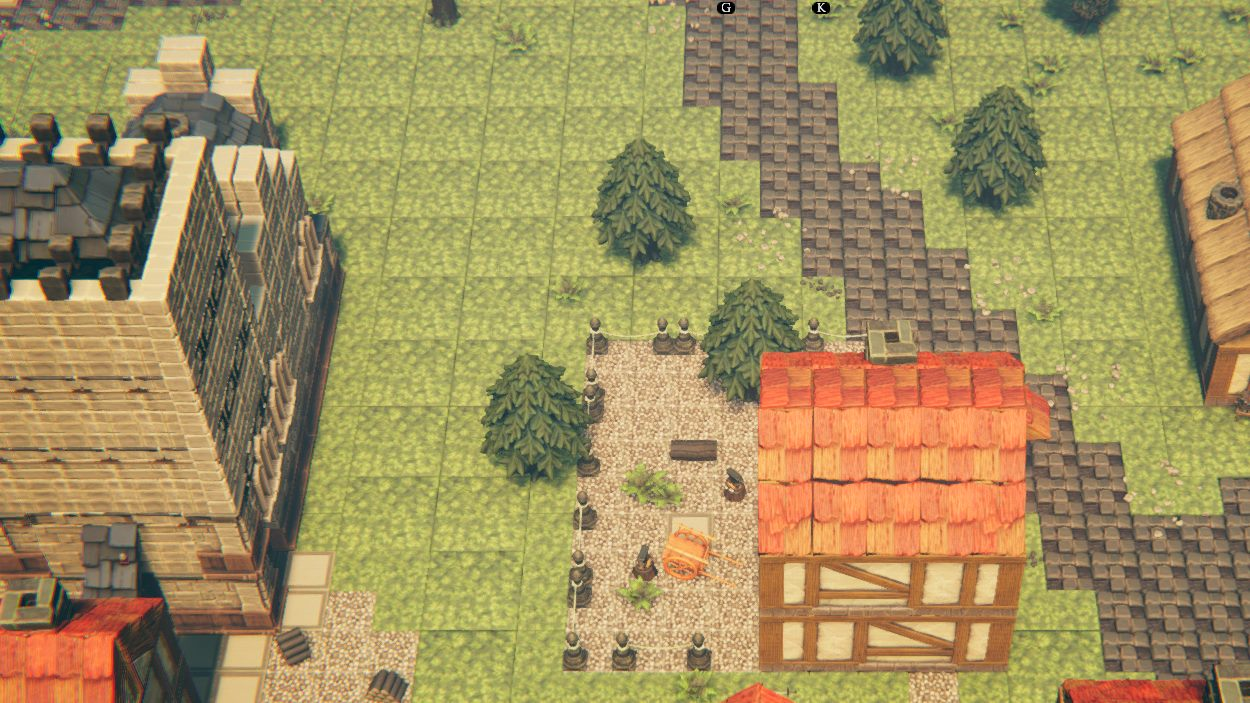
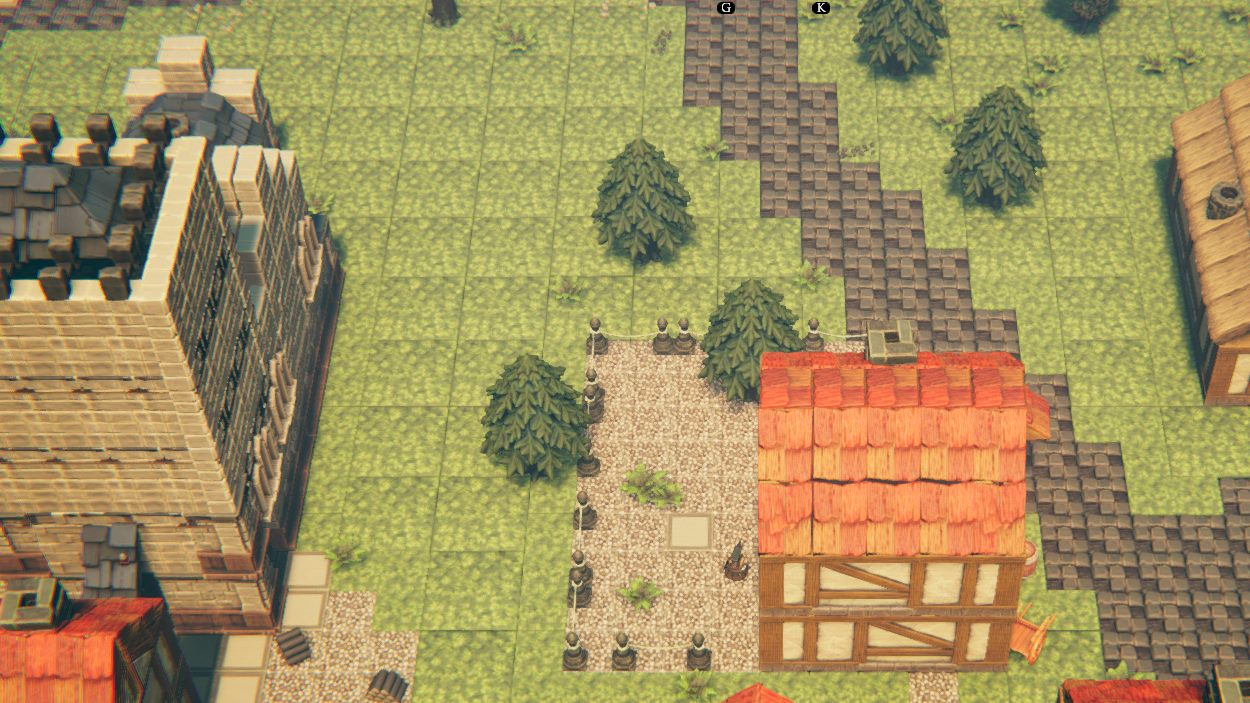
All four towns rebuilt and re-pasted, on one command
199 chunks across four boards, every one named and indexed: Forest Church 54,
Pelvesthollow 9, Graybank 22, East Tradebourne 114. All four now carry the
same code -- capped chimneys, outdoor yards, outdoor frontages, reserved door
aprons -- where before each board was a different snapshot of the work.

The run is `tools/paste_all.ps1` rather than four invocations, because the
ordering is not a preference: one game window and one cursor means overlapping
runs stamp each other's slabs somewhere invisible.

Both of the run's lessons are about WHEN a check happens, not whether.
`-WhatIf` caught a board-name collision before the run. And the first real
attempt died on its first town with the plane verified moments earlier,
because `review.ps1 tiled` makes its new board and then checks -- and
`newboard` can drop build mode, which is the only state the plane probe can
read in. A reading taken before that call describes a different moment.

diff --git a/docs/regenerating-boards.md b/docs/regenerating-boards.md
@@ -242,6 +242,36 @@ untouched by the carve, the wall verify line, and Graybank's drystone
 boundaries on real parcel lines. Each needs flying to a known place on a
 739x598 town at a camera that frames about 40 tiles.
 
+### All four, rebuilt and re-pasted on one command, 2026-08-31
+
+`tools/paste_all.ps1`. Four towns, 199 chunks, one game window and one cursor,
+so the run is sequential by construction rather than by discipline.
+
+| town | board | assets | chunks | largest slab |
+|---|---|---|---|---|
+| Forest Church | `Forest Church 08-31c` | 26,860 | 54 | 4,593 |
+| Pelvesthollow | `Pelvesthollow 08-31c` | 21,707 | 9 | 13,818 |
+| Graybank | `Graybank 08-31c` | 91,159 | 22 | 22,626 |
+| East Tradebourne | `East Tradebourne 08-31c` | 402,693 | 114 | 23,883 |
+
+All four now carry the same code: capped chimneys, outdoor yards, outdoor
+frontages and reserved door aprons.
+
+**Two things the run taught, both about the order of a check.**
+
+`-WhatIf` prints the plan and the board names and touches nothing. It caught a
+name collision before the run rather than after -- four boards already carried
+the plain date from earlier the same day.
+
+And the first real attempt died on its first town with the build plane
+verified moments earlier. `review.ps1 tiled` does its own `newboard` and THEN
+checks the plane; `newboard` can drop build mode, and the plane probe reads a
+toolbar icon that only exists in build mode. So a check made before that call
+describes the wrong moment entirely. The check now self-heals where it
+belongs -- read, and if the toolbar is not there to read, toggle once and read
+again; still unreadable is a stop, an unreadable probe not being a pass. The
+wrapper's own pre-check was deleted rather than left to disagree.
+
 ## Phase 4 — README
 
 New screenshots into `docs/images`, and the feature list catches up: grown
